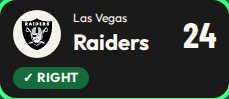
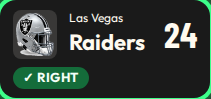
Separate desktop game columns and quiet the unpicked team.
A picked tile was sitting against the next card's dimmed side, so a row looked like two picks. A theme-colored divider now splits the two-column grid, and the side you did not pick is plain text instead of a second card.

diff --git a/src/screens/Week.tsx b/src/screens/Week.tsx
@@ -1,4 +1,4 @@
-import { useEffect, useRef, useState, type CSSProperties } from "react";
+import { Fragment, useEffect, useRef, useState, type CSSProperties } from "react";
 import { savePicks } from "../lib/api";
 import { displayName } from "../lib/names";
 import { rankBy } from "../lib/rank";
@@ -148,9 +148,10 @@ export function WeekScreen({ boot, token }: { boot: Boot; token: string }) {
                             : ""}
                 </span>
               </header>
-              <div className="match">
-                {[game.away, game.home].map((team) => {
+              <div className={mine ? "match picked" : "match"}>
+                {[game.away, game.home].map((team, index) => {
                   const selected = mine === team.id;
+                  const aside = Boolean(mine) && !selected;
                   const winner = decided && !game.is_tie && game.winner_team_id === team.id;
                   let result = "";
                   if (selected && decided && game.is_tie) result = " tie";
@@ -161,30 +162,32 @@ export function WeekScreen({ boot, token }: { boot: Boot; token: string }) {
                   const score = showScore(game.status) ? raw : null;
                   const paint = teamCardColors(team.color);
                   return (
-                    <button
-                      key={team.id}
-                      type="button"
-                      className={`team${selected ? " selected" : ""}${result}`}
-                      style={{ "--team": paint.fill, "--ink": paint.ink, "--ring": paint.ring } as CSSProperties}
-                      aria-pressed={selected}
-                      disabled={game.locked || !boot.me}
-                      data-testid={`pick-${game.slot}-${team.id}`}
-                      onClick={() => choose(game, team.id)}
-                    >
-                      <span className="team-row">
-                        <Helmet id={team.id} width={44} />
-                        <span className="team-name">
-                          <small>{team.location}</small>
-                          <strong>{team.short_name}</strong>
+                    <Fragment key={team.id}>
+                      {index === 1 && mine ? <span className="versus" aria-hidden="true">@</span> : null}
+                      <button
+                        type="button"
+                        className={`team${selected ? " selected" : ""}${aside ? " aside" : ""}${result}`}
+                        style={{ "--team": paint.fill, "--ink": paint.ink, "--ring": paint.ring } as CSSProperties}
+                        aria-pressed={selected}
+                        disabled={game.locked || !boot.me}
+                        data-testid={`pick-${game.slot}-${team.id}`}
+                        onClick={() => choose(game, team.id)}
+                      >
+                        <span className="team-row">
+                          <Helmet id={team.id} width={aside ? 36 : 44} />
+                          <span className="team-name">
+                            <small>{team.location}</small>
+                            <strong>{team.short_name}</strong>
+                          </span>
+                          {!selected && winner && <span className="winner-mark">W</span>}
+                          {score != null && <b className="score">{score}</b>}
                         </span>
-                        {!selected && winner && <span className="winner-mark">W</span>}
-                        {score != null && <b className="score">{score}</b>}
-                      </span>
-                      {selected && !decided && <em className="pick-badge">Your pick ✓</em>}
-                      {selected && decided && game.is_tie && <em className="pick-badge tie">Tie</em>}
-                      {selected && decided && !game.is_tie && winner && <em className="pick-badge right">✓ Right</em>}
-                      {selected && decided && !game.is_tie && !winner && <em className="pick-badge wrong">✗ Wrong</em>}
-                    </button>
+                        {selected && !decided && <em className="pick-badge">Your pick ✓</em>}
+                        {selected && decided && game.is_tie && <em className="pick-badge tie">Tie</em>}
+                        {selected && decided && !game.is_tie && winner && <em className="pick-badge right">✓ Right</em>}
+                        {selected && decided && !game.is_tie && !winner && <em className="pick-badge wrong">✗ Wrong</em>}
+                      </button>
+                    </Fragment>
                   );
                 })}
               </div>

diff --git a/src/styles.css b/src/styles.css
@@ -94,6 +94,15 @@ main {
   padding: 14px;
   box-shadow: 0 16px 40px rgba(0, 0, 0, 0.22);
 }
+.game {
+  background: #101c16;
+  background: color-mix(in srgb, var(--card) 82%, black);
+  border-color: rgba(246, 243, 234, 0.28);
+  border-color: color-mix(in srgb, var(--text) 32%, transparent);
+  box-shadow:
+    0 18px 36px rgba(0, 0, 0, 0.34),
+    inset 0 1px 0 rgba(255, 250, 240, 0.1);
+}
 .game header, .split { display: flex; justify-content: space-between; gap: 8px; color: var(--faint); font-size: 13px; }
 .live { color: var(--bad); }
 .match { display: grid; gap: 8px; margin-top: 10px; }
@@ -203,6 +212,36 @@ main {
 }
 .team.selected.tie .pick-badge { color: #1a1a1a; }
 .team.winner { box-shadow: none; }
+.team.aside {
+  background: transparent;
+  border: 0;
+  border-radius: 0;
+  box-shadow: none;
+  opacity: 1;
+  filter: none;
+}
+.team.aside .team-name small,
+.team.aside .team-name strong {
+  color: var(--text);
+  opacity: 0.5;
+}
+.team.aside .helmet { background: transparent; }
+.team.aside .helmet img {
+  filter: grayscale(1);
+  opacity: 0.85;
+}
+.team.aside .score,
+.team.aside .winner-mark { opacity: 1; }
+.versus {
+  align-self: center;
+  justify-self: center;
+  color: var(--muted);
+  font-size: 14px;
+  font-weight: 700;
+  letter-spacing: 0.04em;
+  opacity: 0.72;
+  pointer-events: none;
+}
 .team:disabled { cursor: default; }
 .helmet {
   --helmet-w: 40px;
@@ -568,6 +607,26 @@ main {
     padding: 24px 12px;
   }
   main { padding: 12px 28px 48px; }
-  .games { grid-template-columns: 1fr 1fr; }
+  .games {
+    position: relative;
+    grid-template-columns: 1fr 1fr;
+    column-gap: 48px;
+  }
+  .games::before {
+    content: "";
+    position: absolute;
+    z-index: 1;
+    top: 10px;
+    bottom: 10px;
+    left: 50%;
+    width: 2px;
+    transform: translateX(-50%);
+    background: var(--accent);
+    opacity: 0.3;
+    pointer-events: none;
+    -webkit-mask-image: linear-gradient(to bottom, transparent, #000 16%, #000 84%, transparent);
+    mask-image: linear-gradient(to bottom, transparent, #000 16%, #000 84%, transparent);
+  }
   .match { grid-template-columns: 1fr 1fr; }
+  .match.picked { grid-template-columns: minmax(0, 1fr) auto minmax(0, 1fr); }
 }
